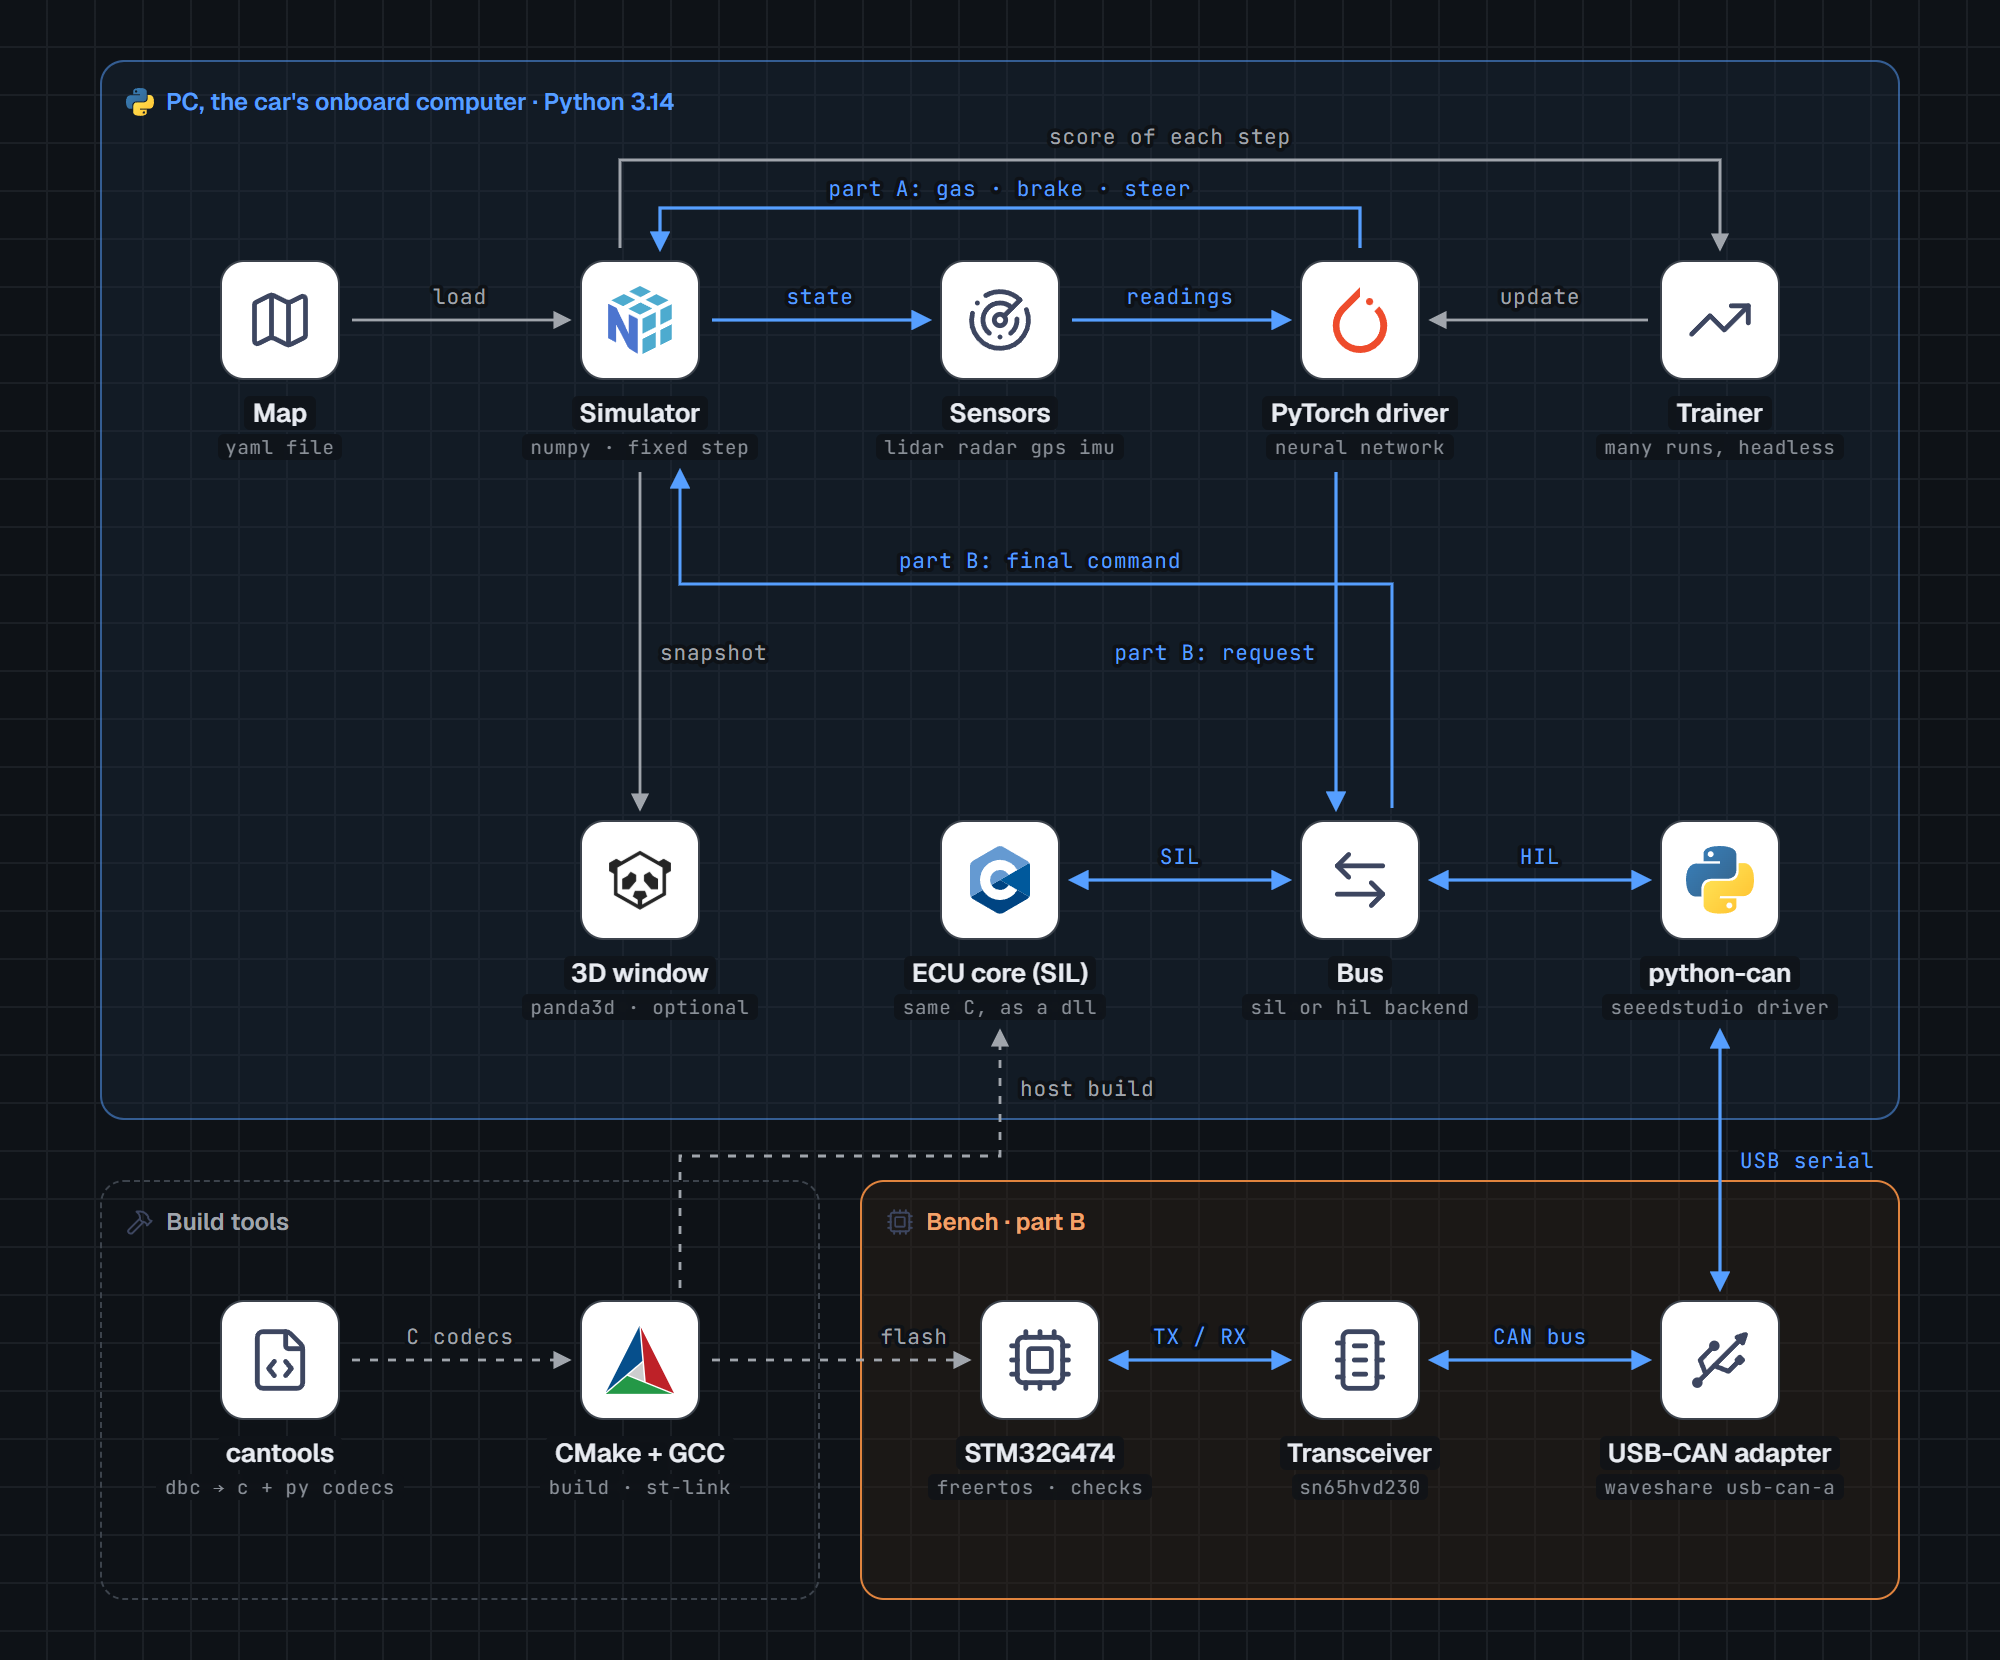
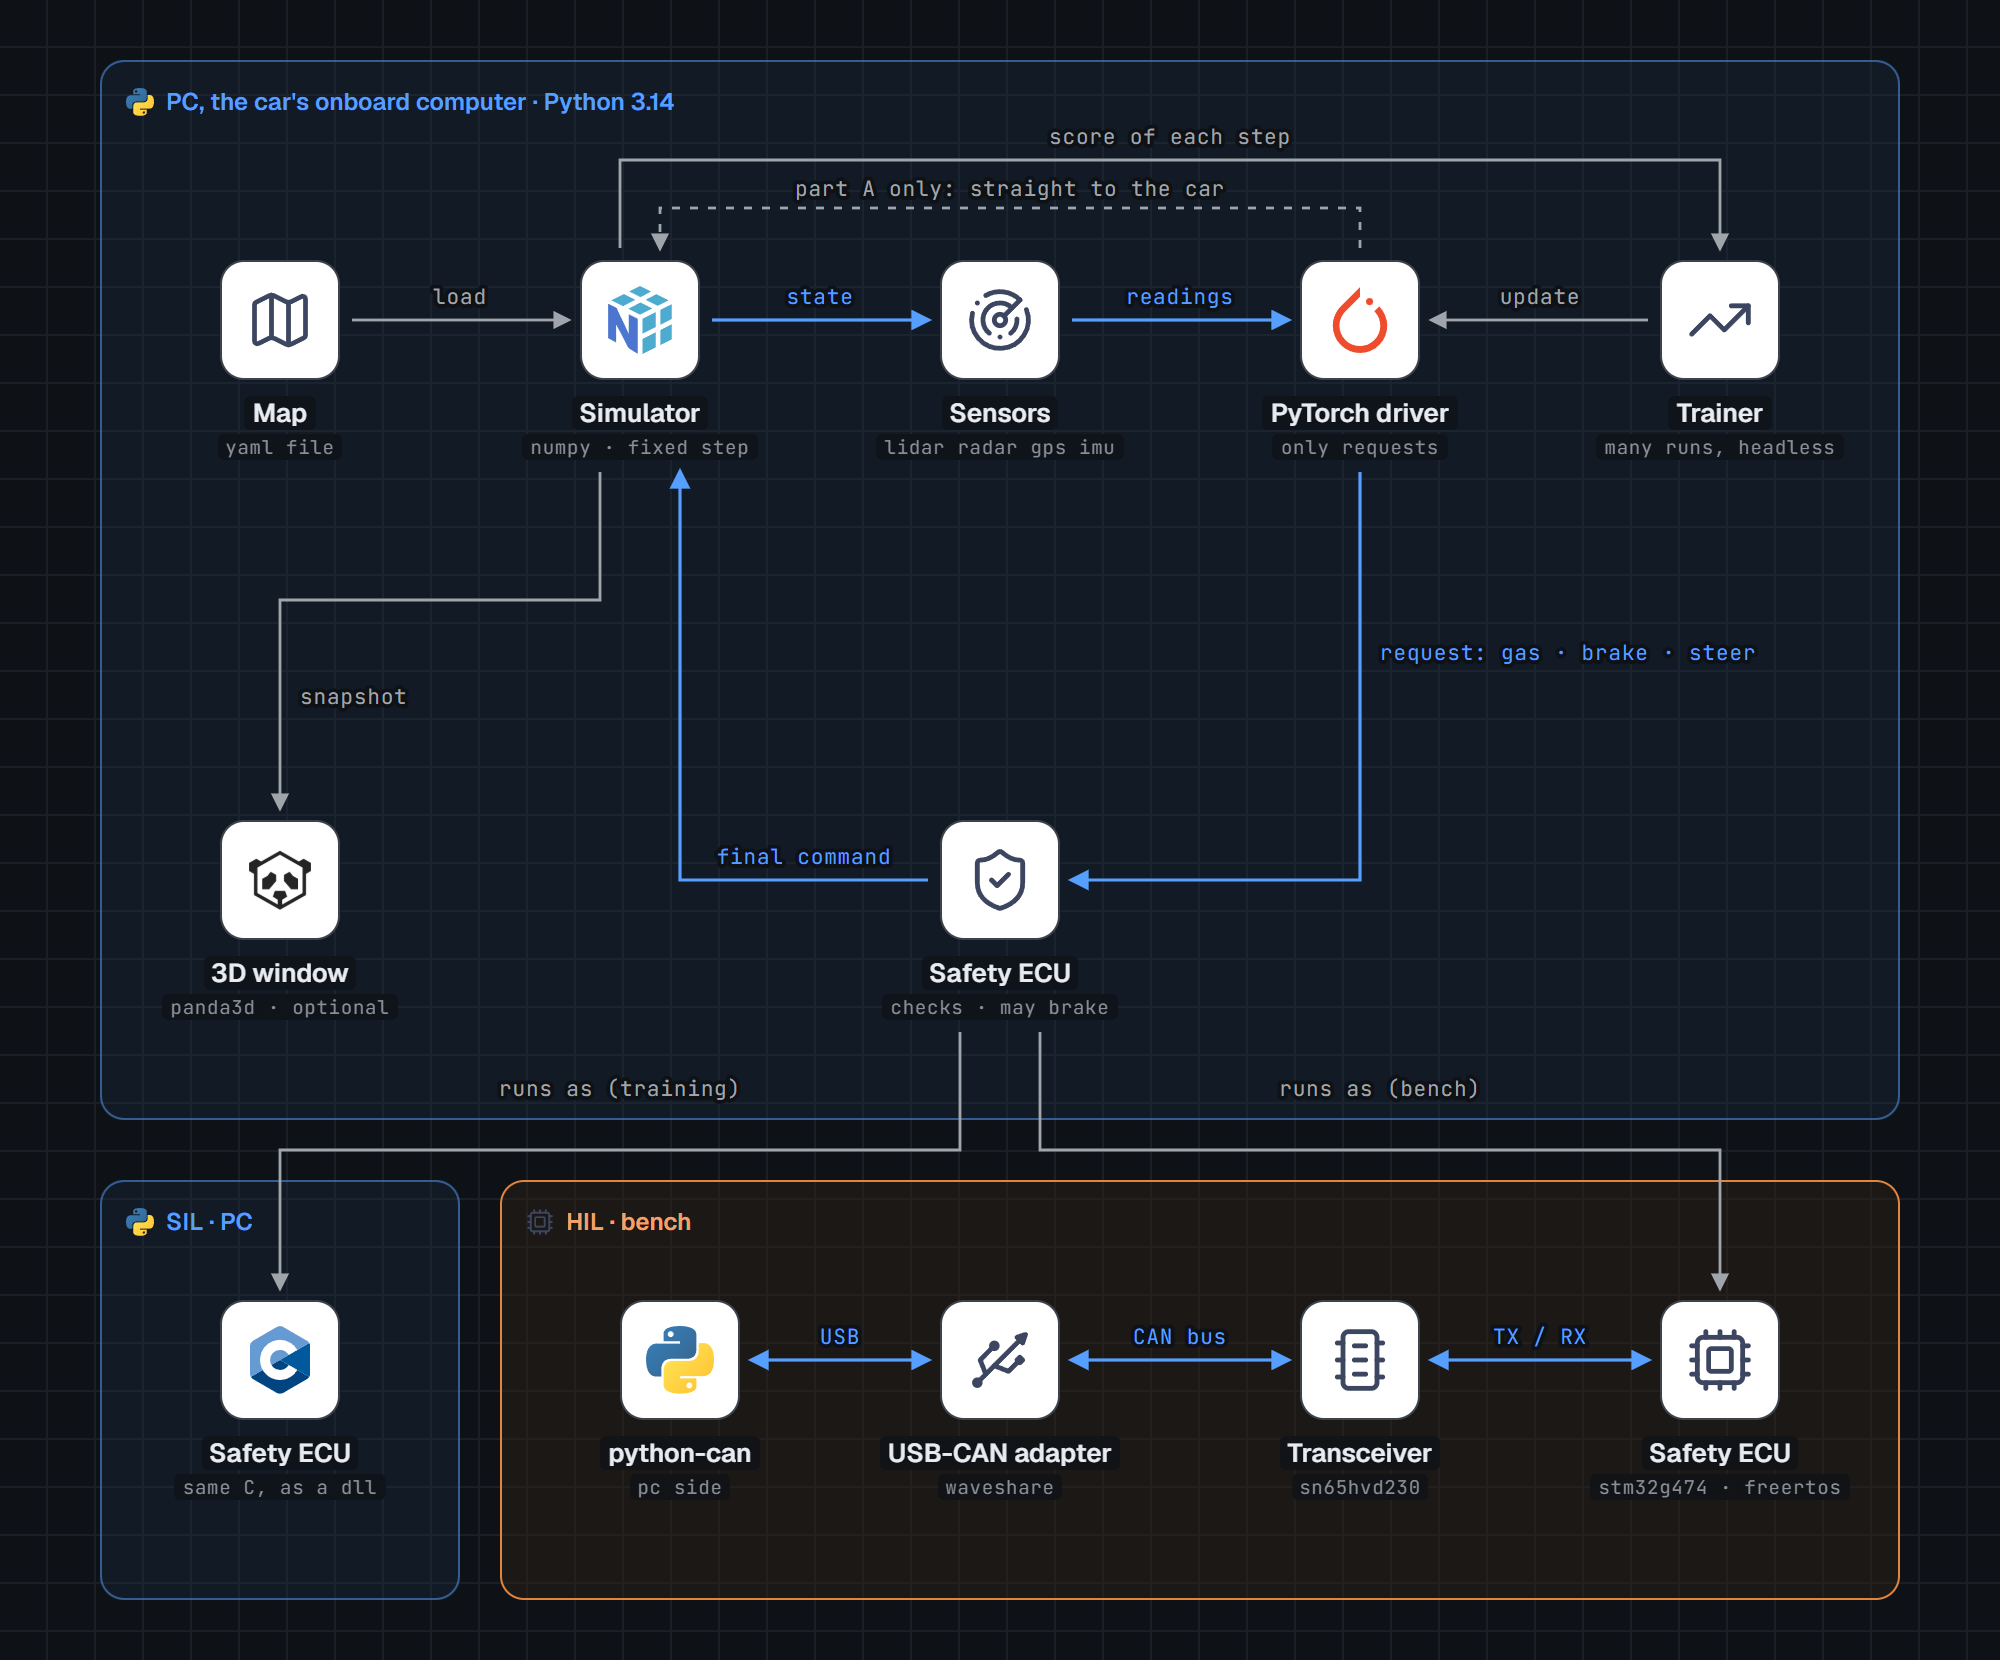
docs: show the safety ecu inside the driving loop in the diagram

diff --git a/README.md b/README.md
@@ -19,12 +19,10 @@ It is built in two parts.
 
 <picture>
   <source media="(prefers-color-scheme: dark)" srcset="docs/architecture-dark.png">
-  <img alt="Architecture: on the PC, the simulator feeds the sensors, the PyTorch driver sends gas, brake and steering back, and a trainer improves the driver from each step's score. In part 2 the driver's request goes through a bus to the ECU core, either as a DLL on the PC or over USB, a CAN adapter, a CAN bus and a transceiver to the STM32, and the final command returns to the simulator." src="docs/architecture.png">
+  <img alt="Architecture: the simulator feeds the sensors, the sensors feed the PyTorch driver, the driver sends a request (gas, brake, steering) to the Safety ECU, and the Safety ECU sends the final command back to the simulator. A trainer improves the driver from each step's score. The Safety ECU runs either as a DLL on the PC (SIL) or on the STM32, reached over USB, a CAN adapter, the CAN bus and a transceiver (HIL)." src="docs/architecture.png">
 </picture>
 
-Blue: the driving loop (part 1 straight back to the simulator, part 2 through the ECU). Grey: the map, the score and the 3D view. Dashed: build time.
-
-In part 2 the STM32 checks every message (intact, new, on time, sensible), then allows the command, limits it, or brakes on its own.
+Blue: the driving loop. The driver only requests; the Safety ECU checks each request (intact, new, on time, sensible), then passes it, limits it, or brakes on its own, and the car obeys only its final command. Dashed: in part 1 there is no ECU yet, so the request goes straight to the car. The Safety ECU is the same C code in both places: a DLL on the PC for fast training (SIL), or the real STM32 on the CAN bus (HIL).
 
 The driver on the PC only asks. The STM32 always decides what the car actually does, and every time it steps in, the run scores lower.
 
